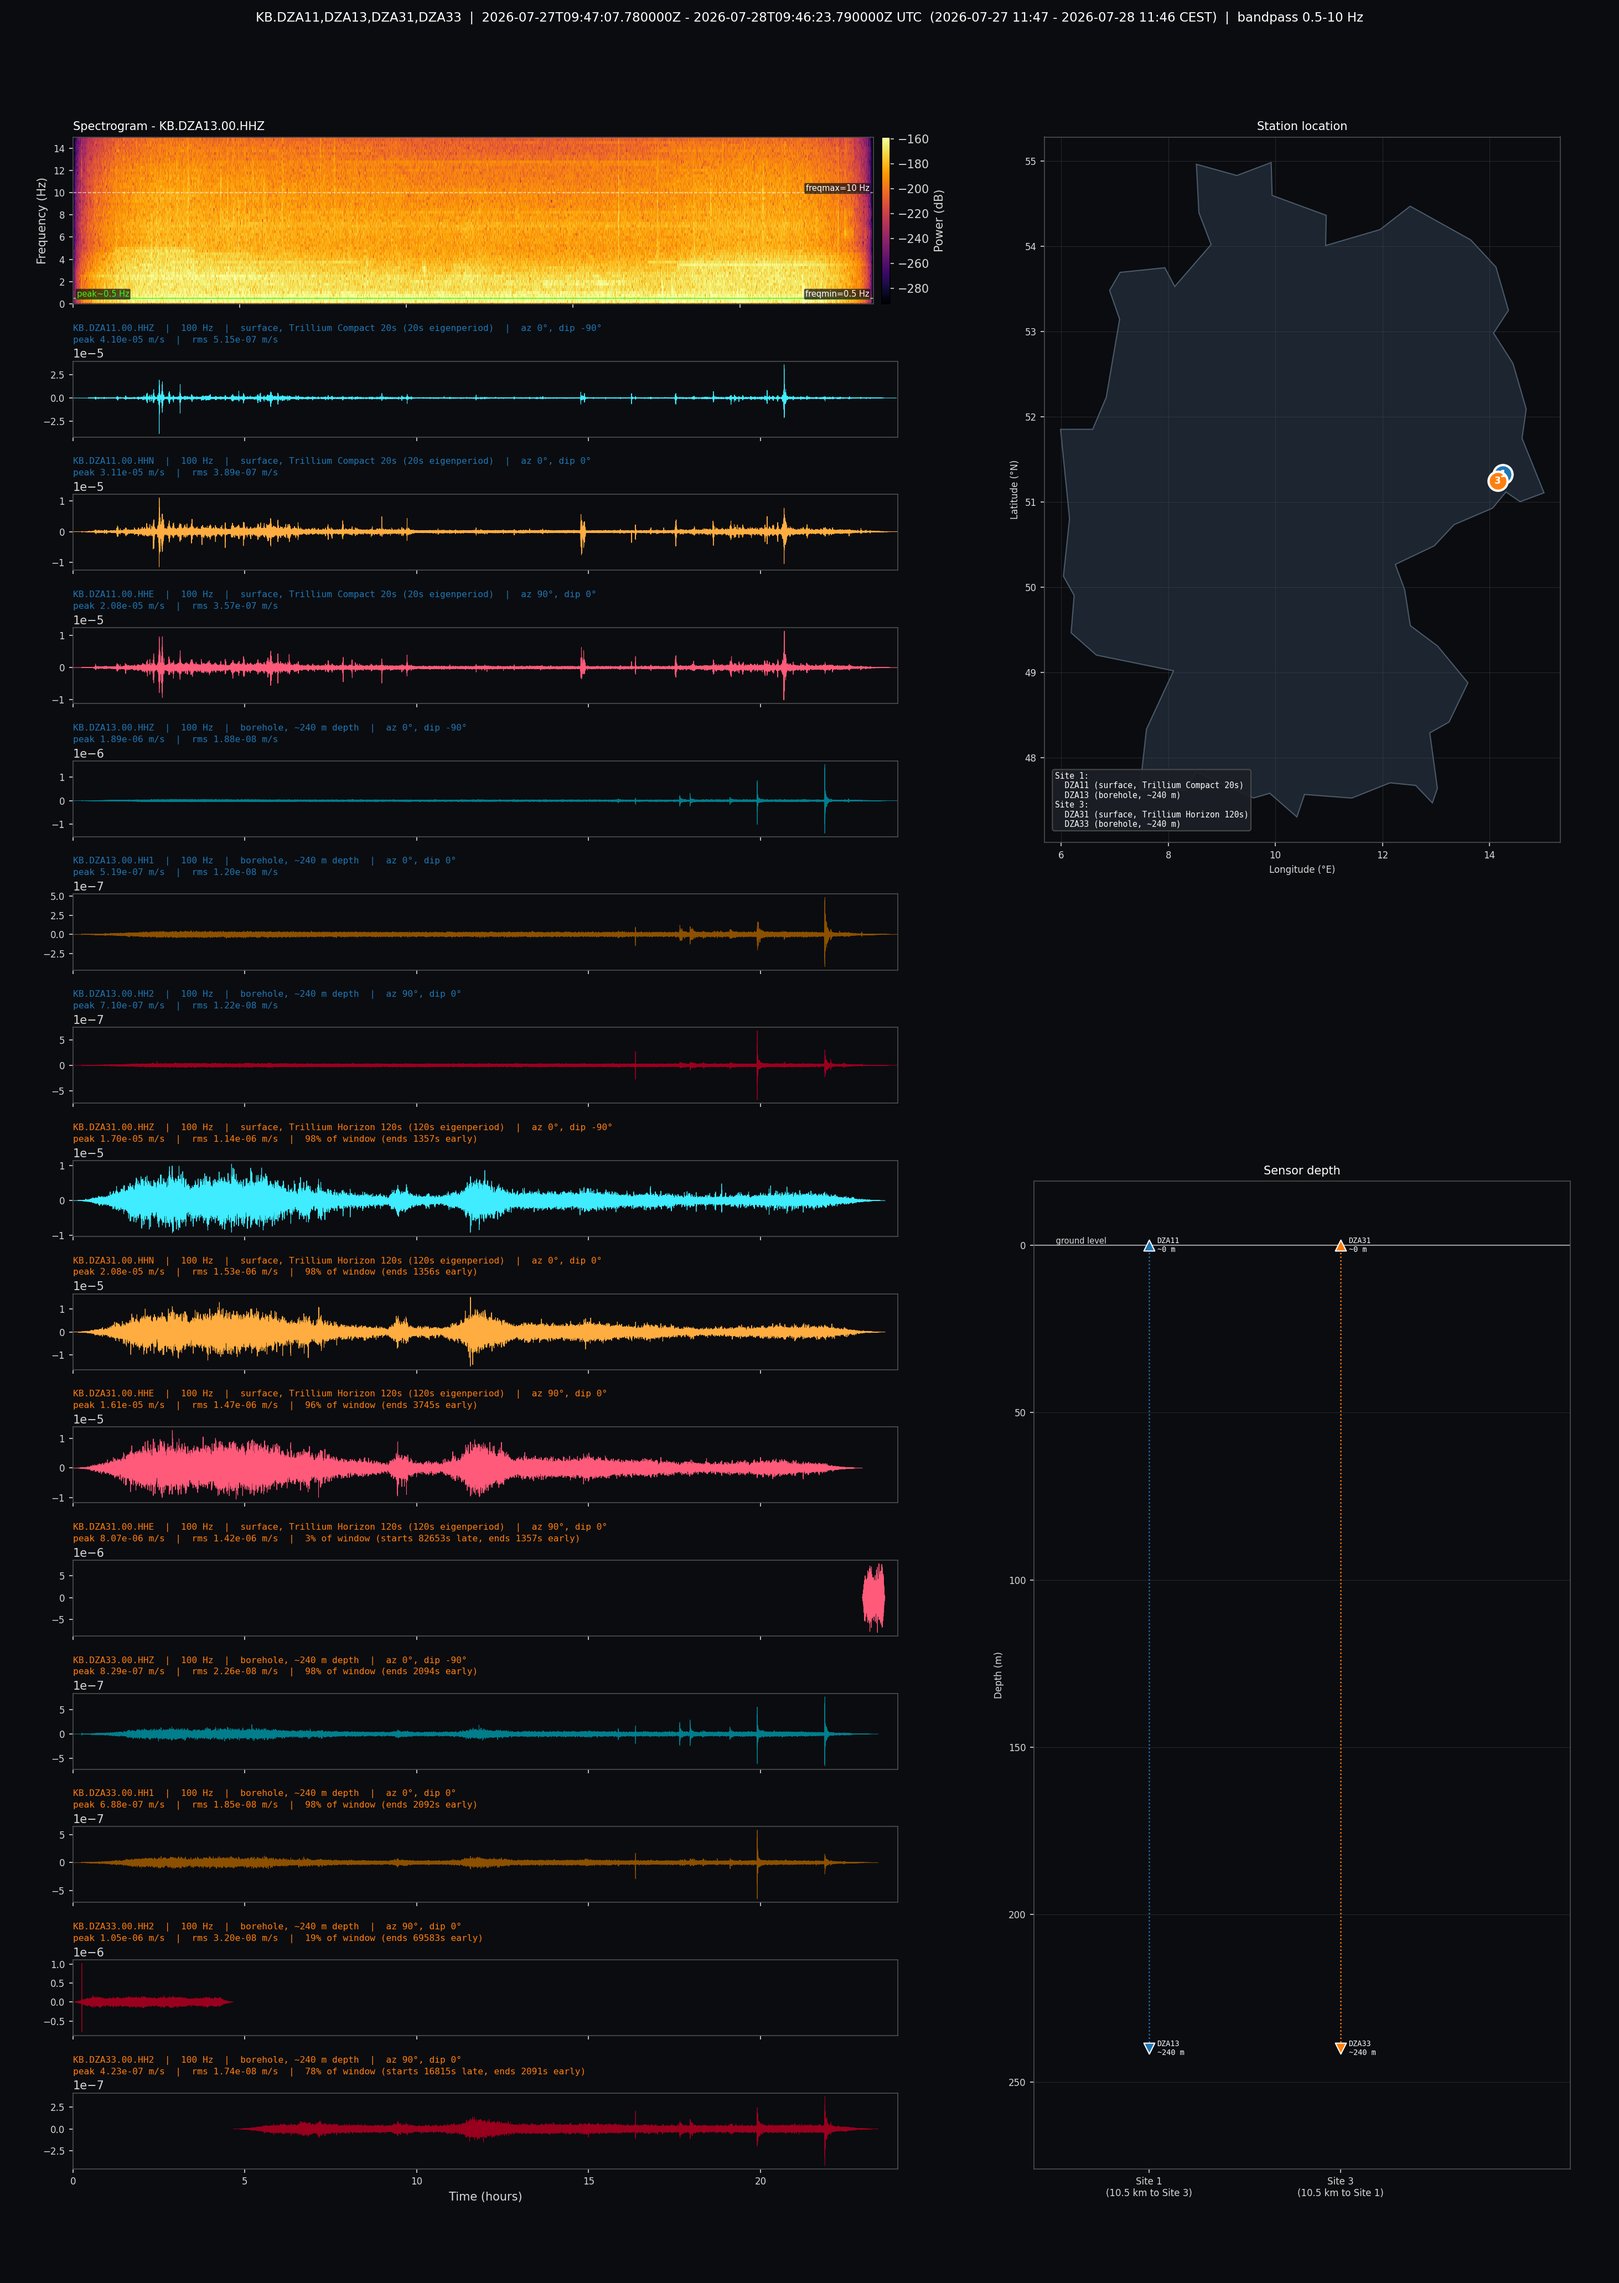
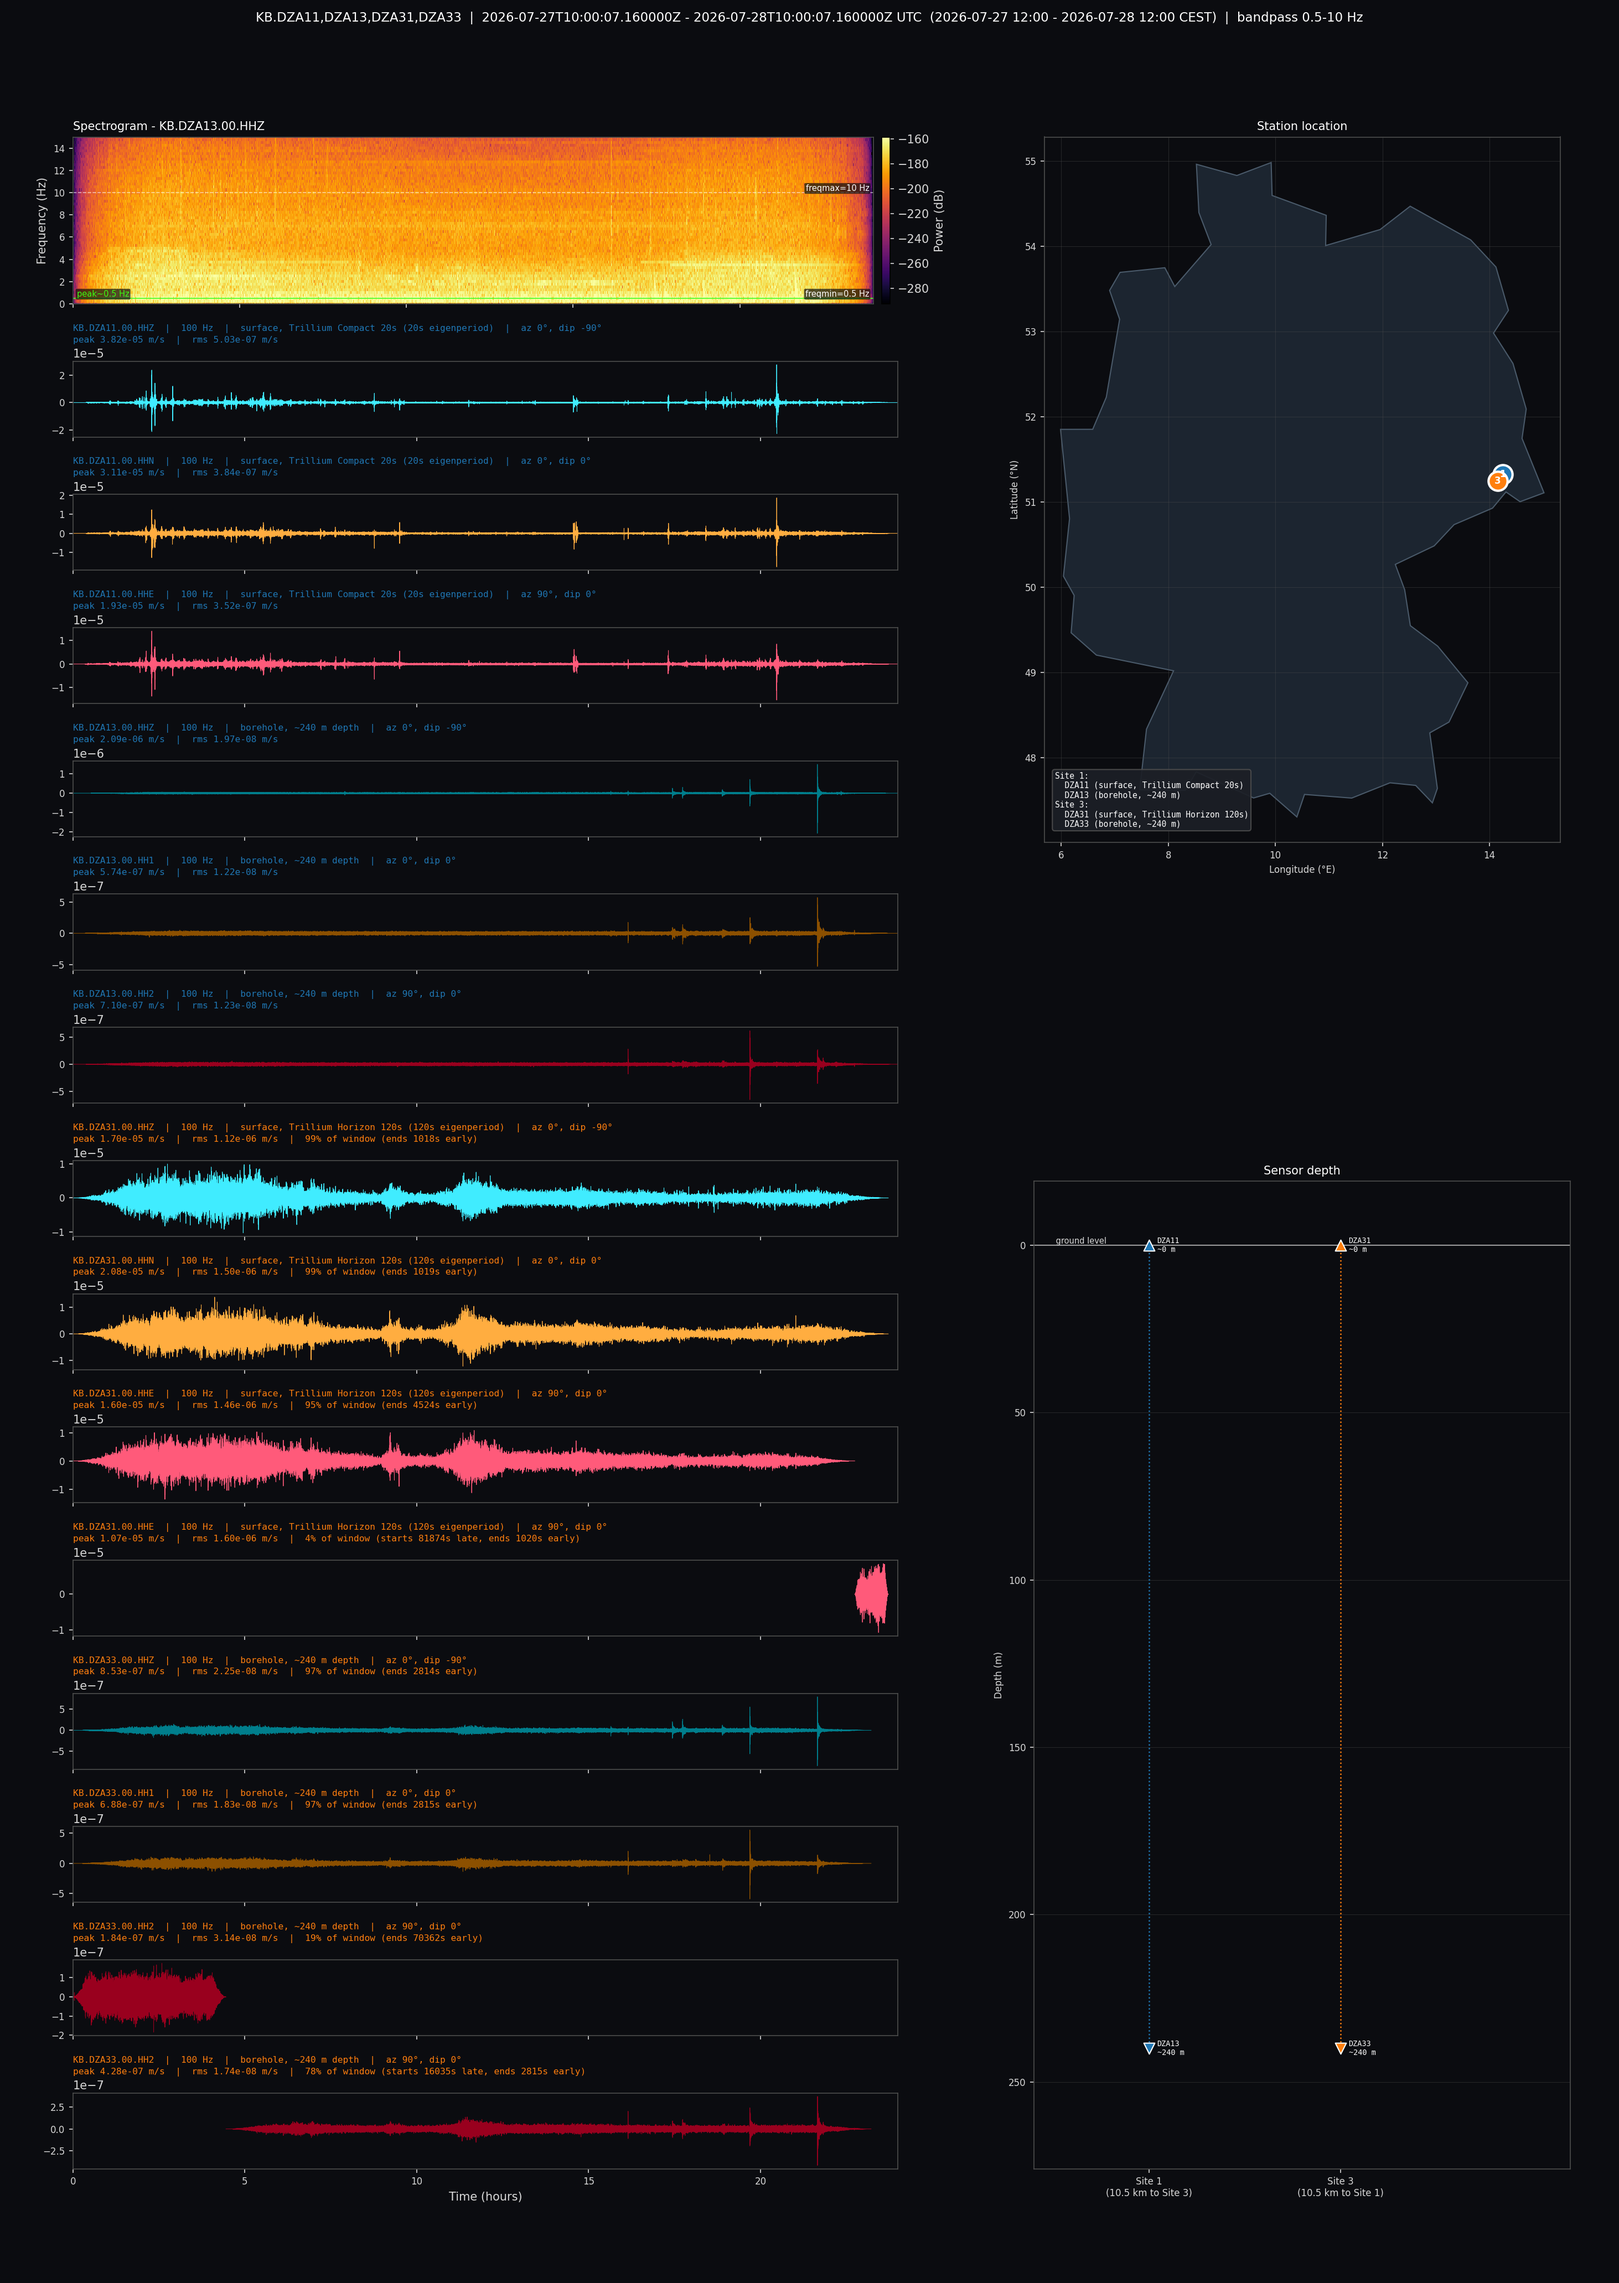
Clean and regenerate sonification batch, drop stale duplicate batch doc
- Wiped datasets/sonifications/ (gitignored, regenerable): removed leftover
  tiny .wav files from an earlier debugging regression test (--duration 2 at
  200x speed-up, 1-24KB each) that had accumulated alongside two real 24h
  batches, and removed the older/stale real batch too, so exactly one clean
  batch remains
- Regenerated a fresh 24h/both-sites/all-14-channel batch against live data
  (DZA_sites-1-3_2026-07-27-10-00) and updated docs/sonification_batch_2026-07-28.md
  to match its exact filenames/durations/coverage notes
- Removed docs/sonification_batch_2026-07-27.md: it described the previous
  day's batch, whose .wav files no longer exist after the cleanup above: one
  current batch doc is clearer for a collaborator than two overlapping ones
- Refreshed docs/images/example_plot.png against the new run

diff --git a/docs/sonification_batch_2026-07-28.md b/docs/sonification_batch_2026-07-28.md
@@ -5,21 +5,20 @@ possible "sound source" from the DZA network in one batch: all channels at
 both currently-active sites, sonified from the same 24h recording so they can
 be compared directly against one another.
 
-This is a re-run of the same recipe as
-[`sonification_batch_2026-07-27.md`](sonification_batch_2026-07-27.md), one
-day later, with the enlarged station map / depth panel and the metadata
-labels moved above (rather than overlapping) each waveform.
+This is the current/clean batch — the `datasets/sonifications/` folder was
+wiped of older runs and one-off test files first, so this is the only run in
+it and there's no ambiguity about which files go together.
 
 ## Source recording
 
 | | |
 |---|---|
 | Command | `python DZA01.py --sites 1,3 --hours-back 24 --speed-up 100 --channel all fetch plot sonify` |
-| Time window (UTC) | 2026-07-27T09:47:07.78 – 2026-07-28T09:46:23.79 |
-| Time window (local, Germany) | 2026-07-27 11:47 – 2026-07-28 11:46 CEST |
+| Time window (UTC) | 2026-07-27T10:00:07.16 – 2026-07-28T10:00:07.16 |
+| Time window (local, Germany) | 2026-07-27 12:00 – 2026-07-28 12:00 CEST |
 | Bandpass applied | 0.5–10 Hz |
-| Raw waveform data | `datasets/mseed/DZA_sites-1-3_2026-07-27-09-47.mseed` (+ `.json` metadata sidecar) |
-| Combined plot (spectrogram + all 14 waveform panels + map + depth) | `datasets/plot/DZA_sites-1-3_2026-07-27-09-47.png` |
+| Raw waveform data | `datasets/mseed/DZA_sites-1-3_2026-07-27-10-00.mseed` (+ `.json` metadata sidecar) |
+| Combined plot (spectrogram + all 14 waveform panels + map + depth) | `datasets/plot/DZA_sites-1-3_2026-07-27-10-00.png` |
 | Speed-up | 100x (a 24h recording becomes ~14.4 min of audio) |
 
 Open the `.png` first — every waveform panel is labeled (in a single line, or
@@ -50,22 +49,22 @@ problem with the sensor.
 
 | # | File (suffix after the shared prefix) | Trace ID | Depth | Orientation (az/dip) | Input duration | Output duration | Coverage note |
 |---|---|---|---|---|---|---|---|
-| 1 | `KB-DZA11-00-HHZ_100x.wav` | KB.DZA11.00.HHZ | surface | 0°/-90° (vertical) | 86236.0 s | 862.4 s | full |
-| 2 | `KB-DZA11-00-HHN_100x.wav` | KB.DZA11.00.HHN | surface | 0°/0° (north) | 86400.0 s | 864.0 s | full |
-| 3 | `KB-DZA11-00-HHE_100x.wav` | KB.DZA11.00.HHE | surface | 90°/0° (east) | 86400.0 s | 864.0 s | full |
-| 4 | `KB-DZA13-00-HHZ_100x.wav` | KB.DZA13.00.HHZ | borehole ~240 m | 0°/-90° (vertical) | 86356.0 s | 863.6 s | full |
-| 5 | `KB-DZA13-00-HH1_100x.wav` | KB.DZA13.00.HH1 | borehole ~240 m | 0°/0° | 86368.3 s | 863.7 s | full |
-| 6 | `KB-DZA13-00-HH2_100x.wav` | KB.DZA13.00.HH2 | borehole ~240 m | 90°/0° | 86370.2 s | 863.7 s | full |
-| 7 | `KB-DZA31-00-HHZ_100x.wav` | KB.DZA31.00.HHZ | surface | 0°/-90° (vertical) | 85043.0 s | 850.4 s | 98% (ends 1357s early) |
-| 8 | `KB-DZA31-00-HHN_100x.wav` | KB.DZA31.00.HHN | surface | 0°/0° (north) | 85043.9 s | 850.4 s | 98% (ends 1356s early) |
-| 9 | `KB-DZA31-00-HHE_100x.wav` | KB.DZA31.00.HHE (segment 1) | surface | 90°/0° (east) | 82655.3 s | 826.6 s | 96% (early segment, ends 3745s before gap) |
-| 10 | `KB-DZA31-00-HHE_seg2_100x.wav` | KB.DZA31.00.HHE (segment 2) | surface | 90°/0° (east) | 2390.0 s | 23.9 s | 3% (short remainder after gap, starts 82653s late) |
-| 11 | `KB-DZA33-00-HHZ_100x.wav` | KB.DZA33.00.HHZ | borehole ~240 m | 0°/-90° (vertical) | 84306.0 s | 843.1 s | 98% (ends 2094s early) |
-| 12 | `KB-DZA33-00-HH1_100x.wav` | KB.DZA33.00.HH1 | borehole ~240 m | 0°/0° | 84307.9 s | 843.1 s | 98% (ends 2092s early) |
-| 13 | `KB-DZA33-00-HH2_100x.wav` | KB.DZA33.00.HH2 (segment 1) | borehole ~240 m | 90°/0° | 16817.2 s | 168.2 s | 19% (early segment only, before gap) |
-| 14 | `KB-DZA33-00-HH2_seg2_100x.wav` | KB.DZA33.00.HH2 (segment 2) | borehole ~240 m | 90°/0° | 67494.0 s | 674.9 s | 78% (remainder after gap) |
+| 1 | `KB-DZA11-00-HHZ_100x.wav` | KB.DZA11.00.HHZ | surface | 0°/-90° (vertical) | 86364.1 s | 863.6 s | full |
+| 2 | `KB-DZA11-00-HHN_100x.wav` | KB.DZA11.00.HHN | surface | 0°/0° (north) | 86346.7 s | 863.5 s | full |
+| 3 | `KB-DZA11-00-HHE_100x.wav` | KB.DZA11.00.HHE | surface | 90°/0° (east) | 86342.9 s | 863.4 s | full |
+| 4 | `KB-DZA13-00-HHZ_100x.wav` | KB.DZA13.00.HHZ | borehole ~240 m | 0°/-90° (vertical) | 86400.0 s | 864.0 s | full |
+| 5 | `KB-DZA13-00-HH1_100x.wav` | KB.DZA13.00.HH1 | borehole ~240 m | 0°/0° | 86400.0 s | 864.0 s | full |
+| 6 | `KB-DZA13-00-HH2_100x.wav` | KB.DZA13.00.HH2 | borehole ~240 m | 90°/0° | 86400.0 s | 864.0 s | full |
+| 7 | `KB-DZA31-00-HHZ_100x.wav` | KB.DZA31.00.HHZ | surface | 0°/-90° (vertical) | 85382.1 s | 853.8 s | 99% (ends 1018s early) |
+| 8 | `KB-DZA31-00-HHN_100x.wav` | KB.DZA31.00.HHN | surface | 0°/0° (north) | 85381.0 s | 853.8 s | 99% (ends 1019s early) |
+| 9 | `KB-DZA31-00-HHE_100x.wav` | KB.DZA31.00.HHE (segment 1) | surface | 90°/0° (east) | 81876.0 s | 818.8 s | 95% (early segment, ends 4524s before gap) |
+| 10 | `KB-DZA31-00-HHE_seg2_100x.wav` | KB.DZA31.00.HHE (segment 2) | surface | 90°/0° (east) | 3506.6 s | 35.1 s | 4% (short remainder after gap, starts 81874s late) |
+| 11 | `KB-DZA33-00-HHZ_100x.wav` | KB.DZA33.00.HHZ | borehole ~240 m | 0°/-90° (vertical) | 83585.6 s | 835.9 s | 97% (ends 2814s early) |
+| 12 | `KB-DZA33-00-HH1_100x.wav` | KB.DZA33.00.HH1 | borehole ~240 m | 0°/0° | 83584.6 s | 835.8 s | 97% (ends 2815s early) |
+| 13 | `KB-DZA33-00-HH2_100x.wav` | KB.DZA33.00.HH2 (segment 1) | borehole ~240 m | 90°/0° | 16037.9 s | 160.4 s | 19% (early segment only, before gap) |
+| 14 | `KB-DZA33-00-HH2_seg2_100x.wav` | KB.DZA33.00.HH2 (segment 2) | borehole ~240 m | 90°/0° | 67550.2 s | 675.5 s | 78% (remainder after gap) |
 
-(Every filename above is prefixed with `DZA_sites-1-3_2026-07-27-09-47_`.)
+(Every filename above is prefixed with `DZA_sites-1-3_2026-07-27-10-00_`.)
 
 ## Listening suggestions
 

diff --git a/README.md b/README.md
@@ -492,8 +492,7 @@ python DZA01.py --sites 1,3 --hours-back 24 --speed-up 100 --channel all fetch p
 ## Sharing a full sonification batch with a collaborator
 
 [`docs/sonification_batch_2026-07-28.md`](docs/sonification_batch_2026-07-28.md)
-(and the earlier [2026-07-27 run](docs/sonification_batch_2026-07-27.md)) are
-worked examples of preparing every currently possible "sound source" (all
+is a worked example of preparing every currently possible "sound source" (all
 channels, both active sites, one 24h window) as a single deliverable: the
 combined plot, the raw `.mseed`, and one `.wav` per channel, with a table
 explaining what each file is (site, depth, sensor model, orientation,
